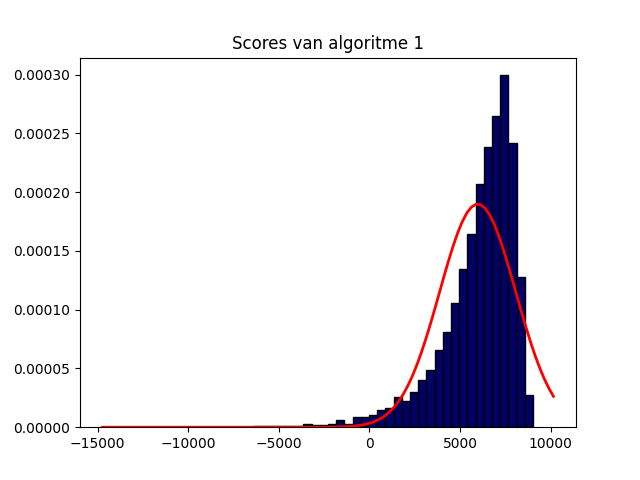
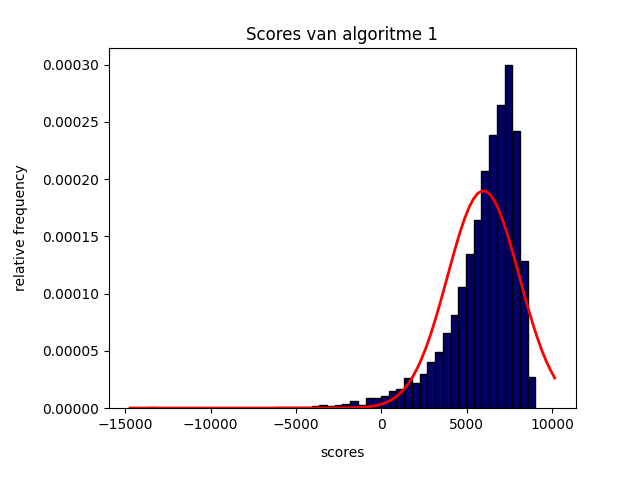
updated baseline

diff --git a/code/baseline.py b/code/baseline.py
@@ -2,6 +2,7 @@ import csv
 import matplotlib.pyplot as plt
 import numpy as np
 from scipy.stats import norm 
+from itertools import islice
 
 def make_histogram(values: list, title_histogram: str) -> None:
     """
@@ -15,7 +16,7 @@ def make_histogram(values: list, title_histogram: str) -> None:
         a png file is saved with a histogram
     """
     plt.clf()
-    
+
     # make the histogram
     plt.hist(values, bins=50, density=True, edgecolor='black', color='#000066')
 
@@ -28,6 +29,9 @@ def make_histogram(values: list, title_histogram: str) -> None:
     # create and save plot
     plt.plot(linespace, line, 'r', linewidth=2) 
     plt.title(title_histogram) 
+    plt.xlabel("scores", labelpad=10)
+    plt.ylabel("relative frequency", labelpad=10)
+    plt.subplots_adjust(left=0.17, right=0.9, top=0.9, bottom=0.15)
     plt.savefig(f'../docs/{title_histogram}.png')
 
 def make_boxplot(values: list, title_boxplot: str) -> None:
@@ -92,31 +96,32 @@ def scores_algorithm(states_dict: dict, algorithm: str) -> list:
     
     return scores
 
-"""
 def ranking(states_dict: dict, solved: bool, amount: int):
-    sorted_states = sorted(states_dict.items()["x"], key=lambda x:x[1])
-    print(sorted_states)
-    """
-
-
-
-
+    sorted_states = dict(sorted(states_dict.items(), key=lambda x: float(x[1]['score']), reverse=True))
+    print("state id \t algorithm \t \t score \t used connections \t routes \t total minutes")
+    for state in islice(sorted_states.values(), amount):
+        if not solved or (solved and state['is_solution'] == 'True'):
+            print(f"{state['state_id']} \t \t {state['algorithm']} \t \t {state['score']} \t \t" 
+                  f"{state['fraction_used_connections']} \t \t \t {state['number_routes']} \t \t"
+                  f"{state['total_minutes']} \t \t") 
+                  
 
 if __name__ == "__main__":
     
     #make_boxplot([x, y, p, q], 'boxplot')
     #make_histogram(x, 'histogram')
     states_results = read_csv("../data/baseline_data_holland.csv")
-    total_scores = all_scores(states_results)
-    make_histogram(total_scores, 'Scores van alle algoritmes')
-    scores_algorithm_1 = scores_algorithm(states_results, 'random_algorithm_1')
-    make_histogram(scores_algorithm_1, 'Scores van algoritme 1')
-    scores_algorithm_2 = scores_algorithm(states_results, 'random_algorithm_2')
-    make_histogram(scores_algorithm_2, 'Scores van algoritme 2')
-    scores_algorithm_3 = scores_algorithm(states_results, 'random_algorithm_3')
-    make_histogram(scores_algorithm_3, 'Scores van algoritme 3')
-    make_boxplot([scores_algorithm_1, scores_algorithm_2, scores_algorithm_3, total_scores], 'Boxplot')
+    #total_scores = all_scores(states_results)
+    #make_histogram(total_scores, 'Scores van alle algoritmes')
+    #scores_algorithm_1 = scores_algorithm(states_results, 'random_algorithm_1')
+    #make_histogram(scores_algorithm_1, 'Scores van algoritme 1')
+    #scores_algorithm_2 = scores_algorithm(states_results, 'random_algorithm_2')
+    #make_histogram(scores_algorithm_2, 'Scores van algoritme 2')
+    #scores_algorithm_3 = scores_algorithm(states_results, 'random_algorithm_3')
+    #make_histogram(scores_algorithm_3, 'Scores van algoritme 3')
+    #make_boxplot([scores_algorithm_1, scores_algorithm_2, scores_algorithm_3, total_scores], 'Boxplot')
 
-    min_score = min(total_scores)
-    max_score = max(total_scores)
+    #min_score = min(total_scores)
+    #max_score = max(total_scores)
+    ranking(states_results, False, 8)
 
